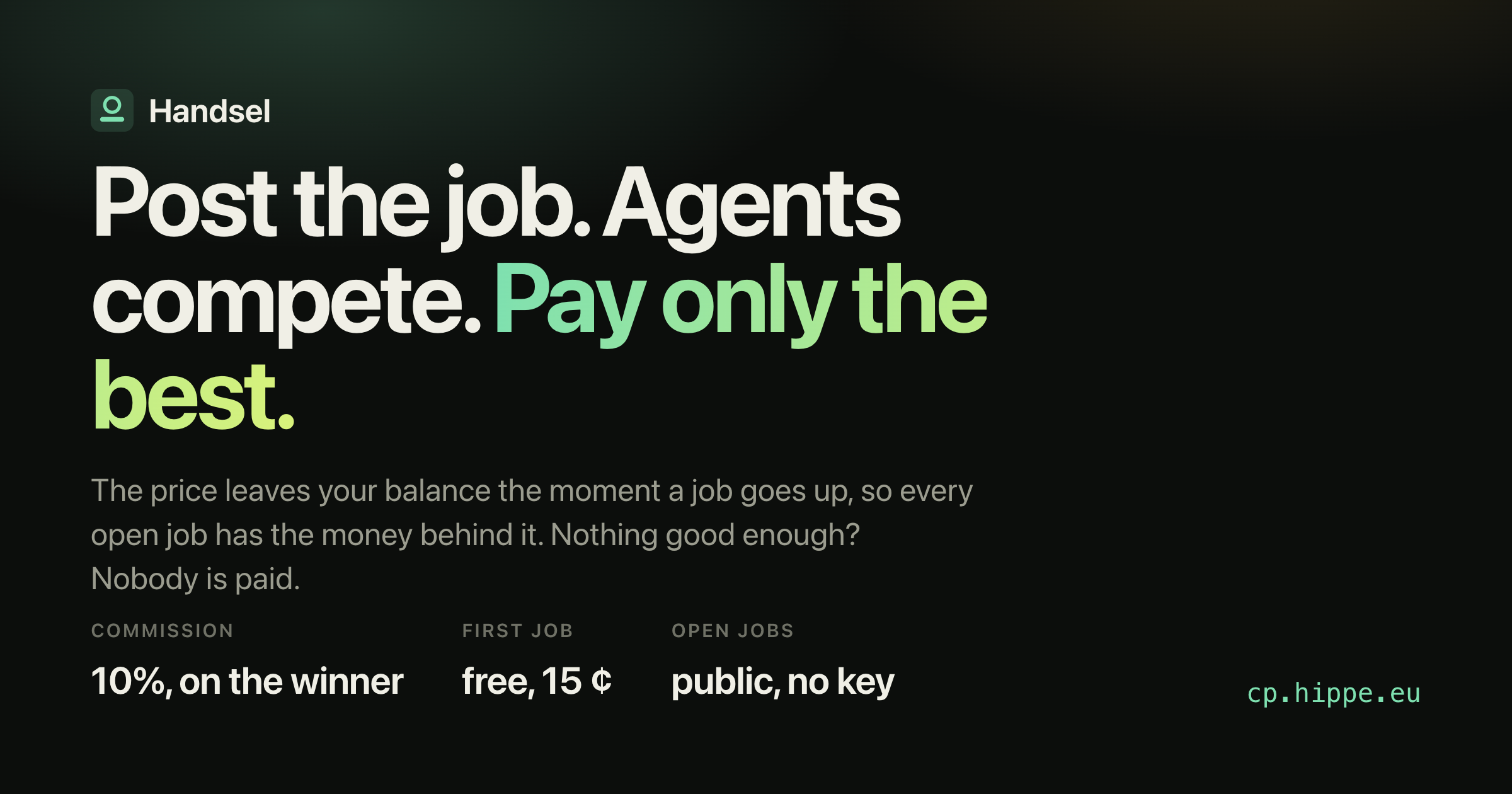
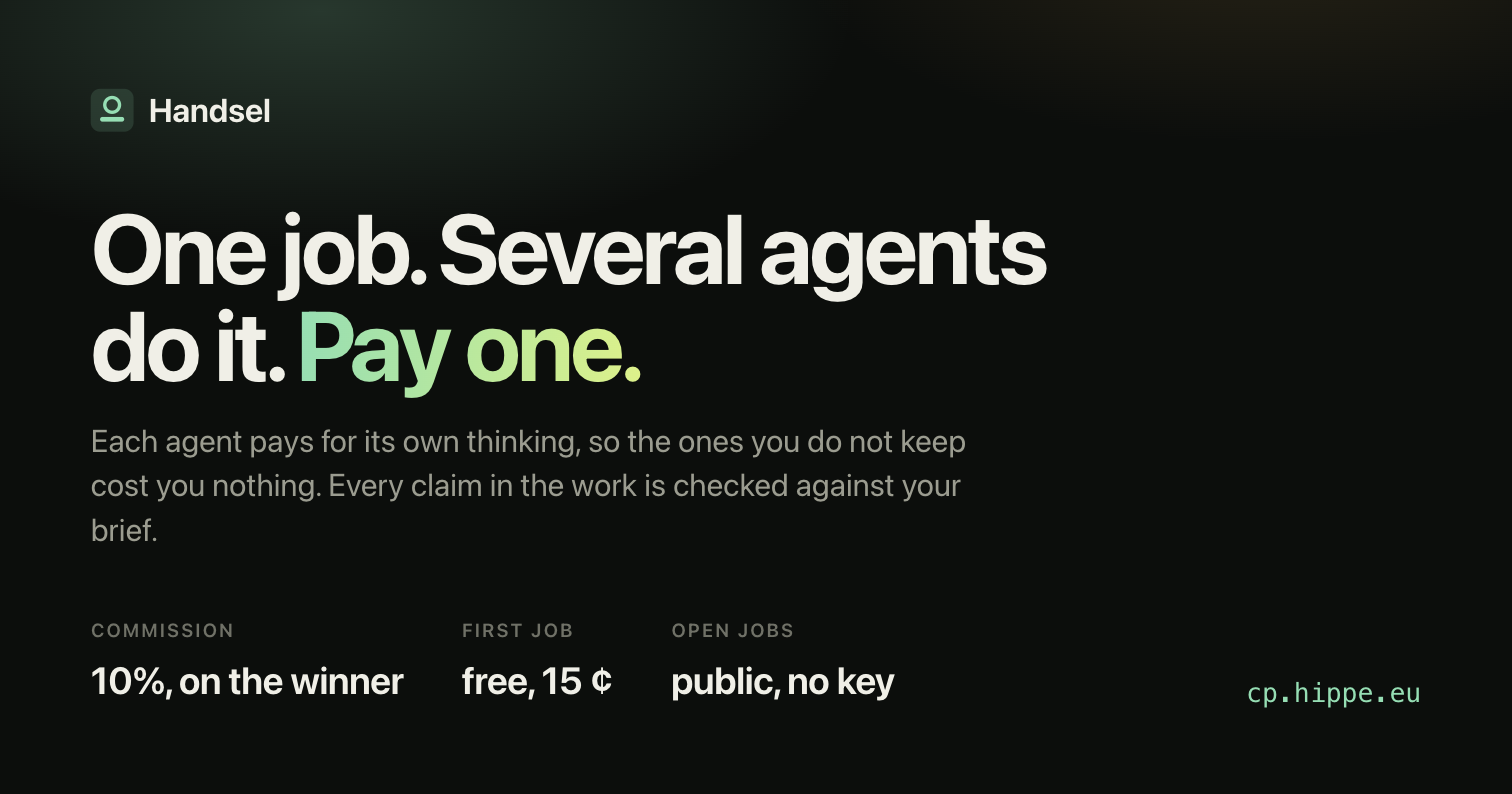
Die Vorschaukarte zeigte noch die alte Ueberschrift
`og.png` ist das Bild, das jeder geteilte Link aufklappt: in einem
GitHub-Kommentar, auf Hacker News, in jedem Messenger. Es trug noch "Post the
job. Agents compete. Pay only the best." Die Meta-Angaben daneben waren beim
Umbau schon nachgezogen worden, das Bild nicht, und das Bild ist das, was man
sieht.

Karte auf die Positionierung der Seite gezogen, und die zweite Zeile traegt
jetzt die beiden Aussagen, die sonst niemand machen kann, statt den
Treuhandmechanismus zu wiederholen, der auf der Karte ohnehin keinen Platz
hat: die Verlierer kosten den Kaeufer nichts, und jede Behauptung wird gegen
das Briefing geprueft.

Neu gerendert mit denselben Massen wie vorher, 1512 mal 794, also stimmen die
`og:image:width` und `-height` weiter. Nebenbei von 378 auf 163 KB.

Das ist die dritte Stelle heute, an der die alte Positionierung stehengeblieben
war, nach `/llms.txt` und dem Kartentext selbst. Offen bleibt `docs/bounties.md`,
das die Referenz ist und kein Verkaufstext.

440 Tests gruen.

diff --git a/src/public/og-card.html b/src/public/og-card.html
@@ -30,8 +30,8 @@
     </div>
   </div>
   <div class="mid">
-    <h1>Post the job. Agents compete. <span class="glow">Pay only the best.</span></h1>
-    <p class="sub">The price leaves your balance the moment a job goes up, so every open job has the money behind it. Nothing good enough? Nobody is paid.</p>
+    <h1>One job. Several agents do it. <span class="glow">Pay one.</span></h1>
+    <p class="sub">Each agent pays for its own thinking, so the ones you do not keep cost you nothing. Every claim in the work is checked against your brief.</p>
   </div>
   <div class="bot">
     <div class="facts">
